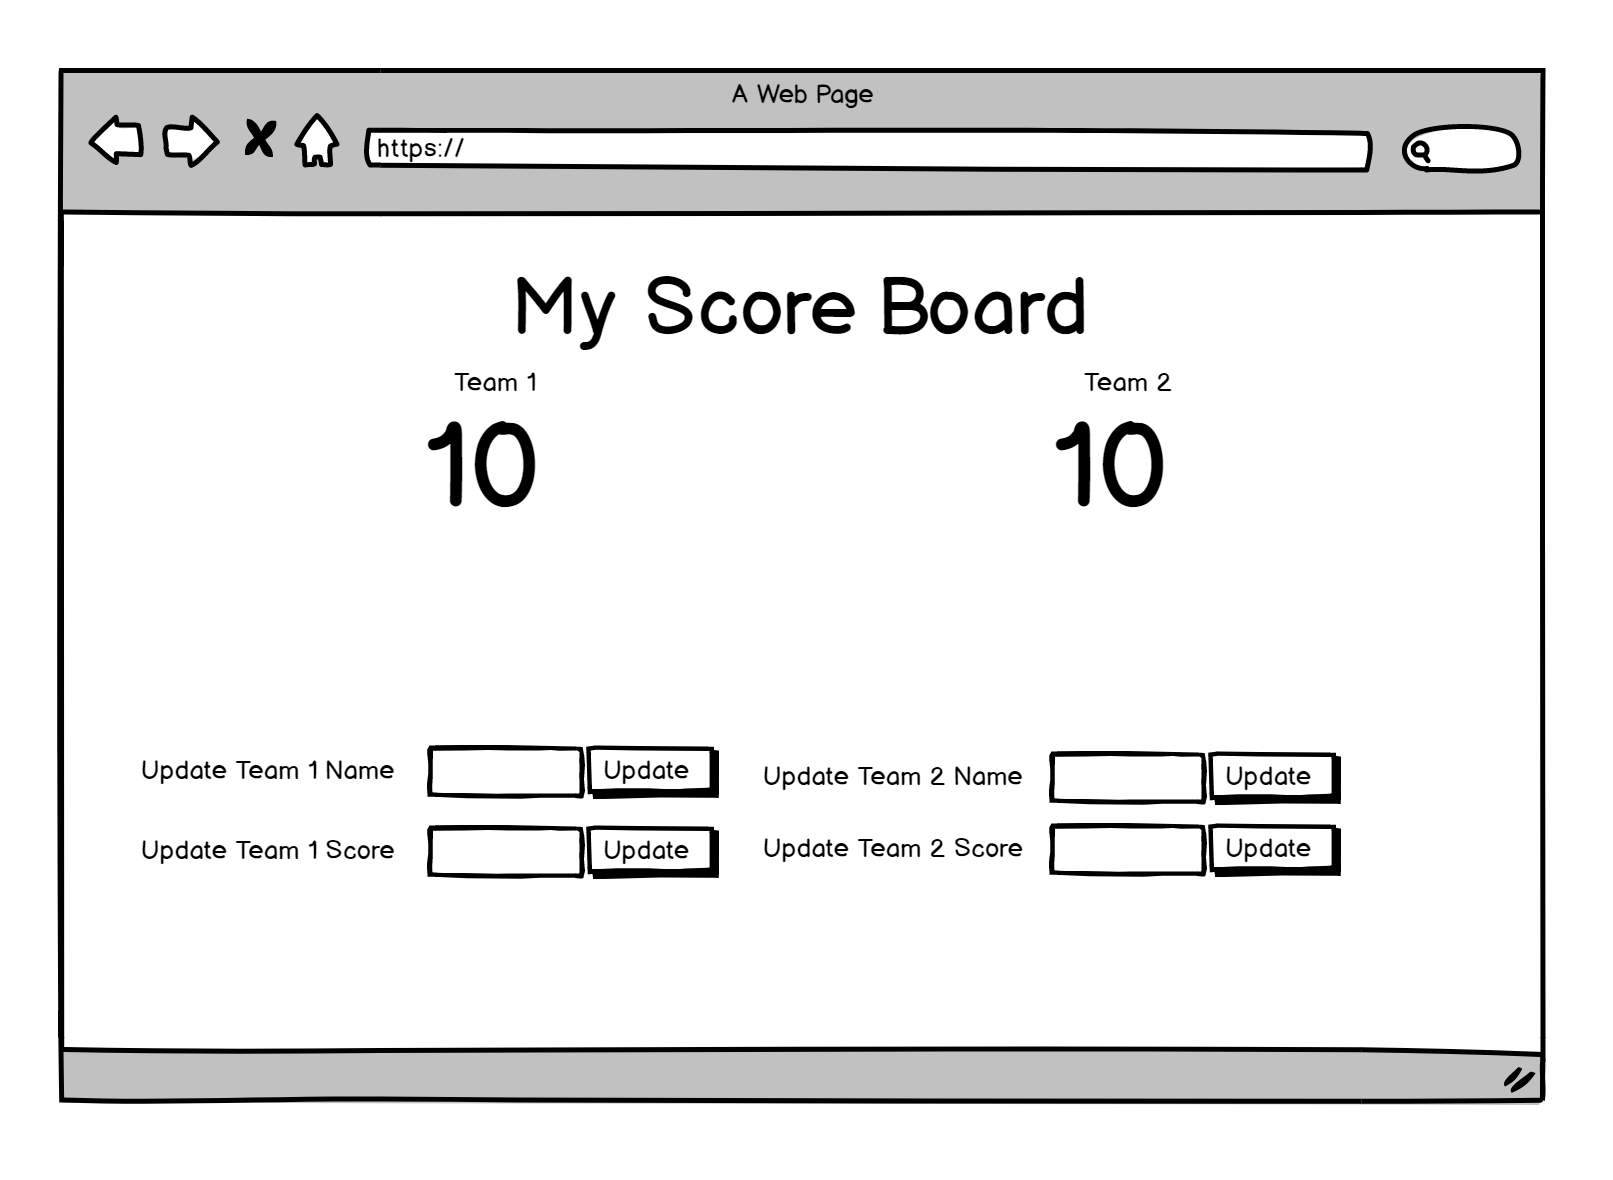
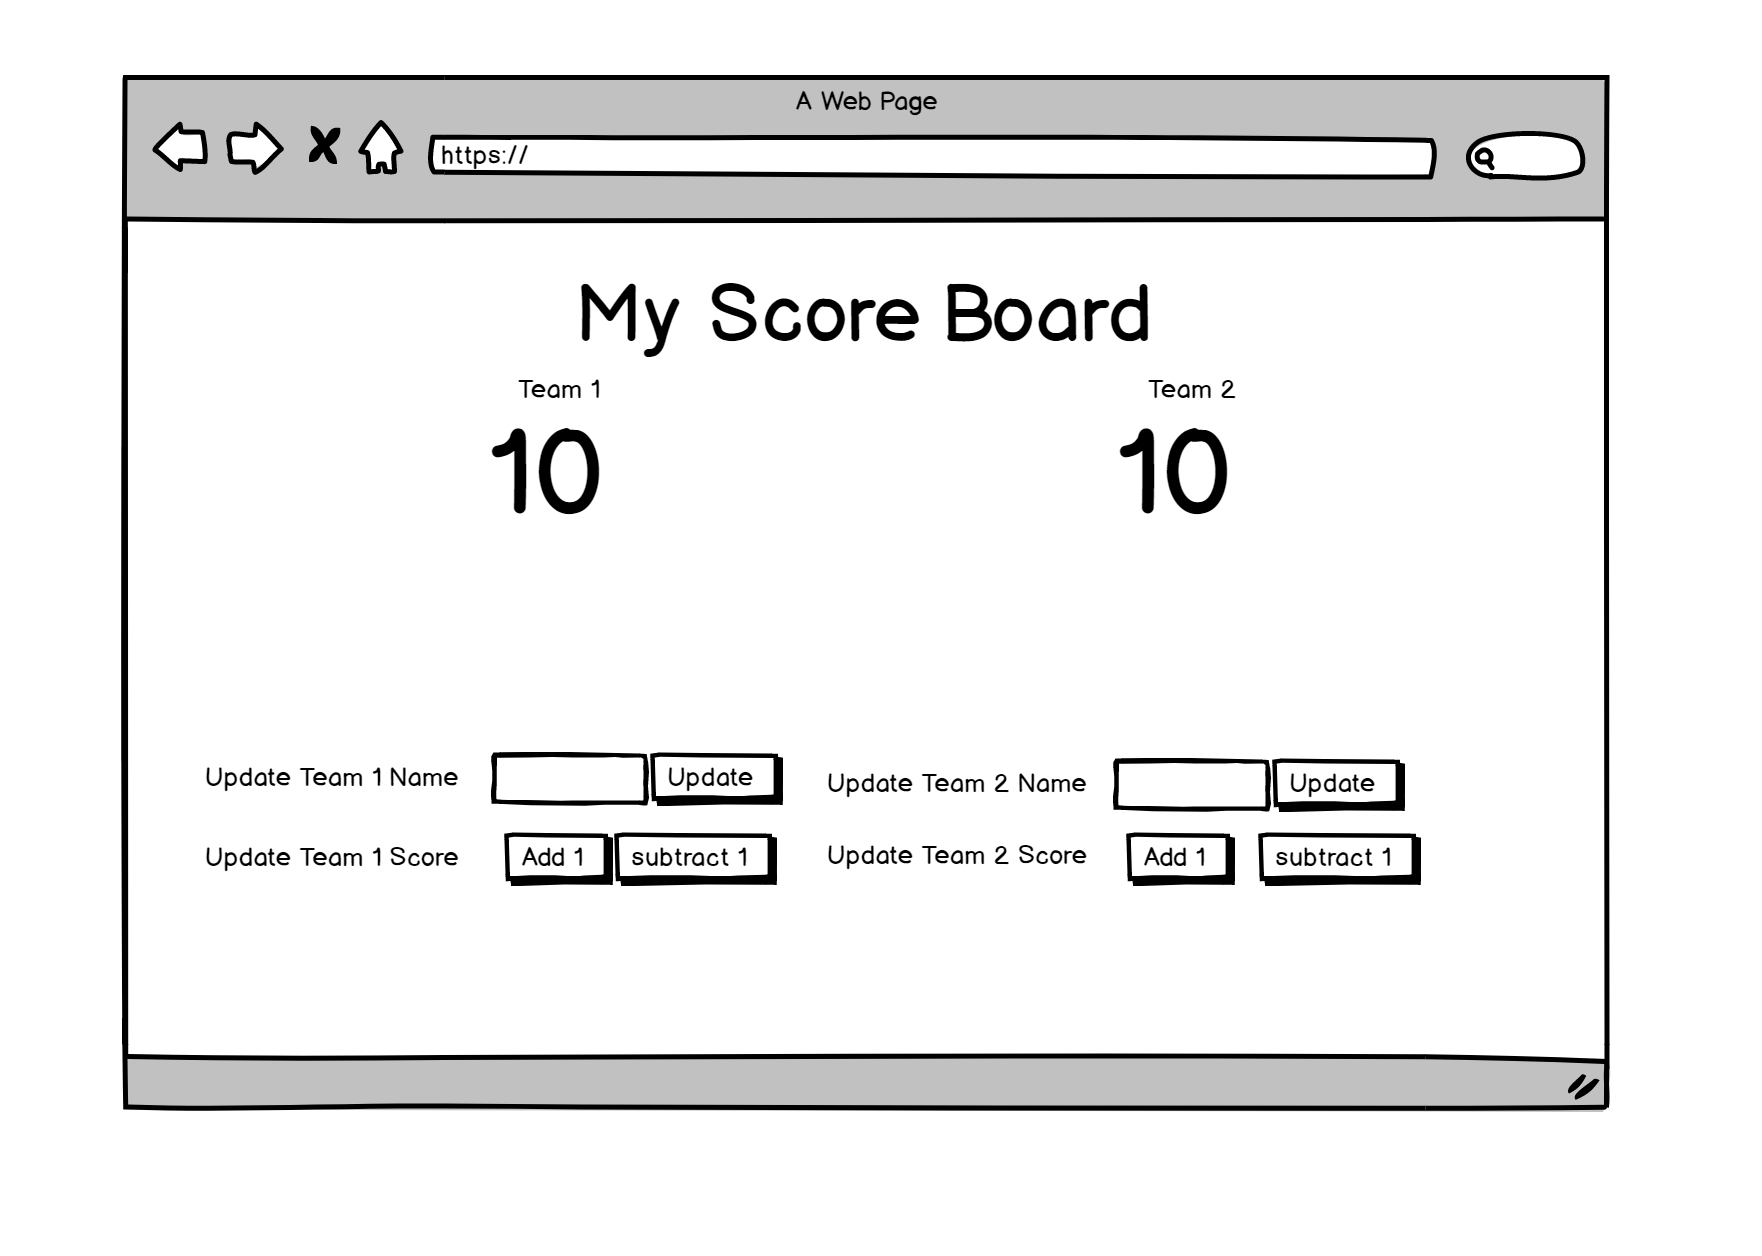
added 2.1 assignment

Changed region(s): [[0.031, 0.0305, 0.9609, 0.9458], [0.31, 0.2136, 0.744, 0.4271], [0.248, 0.3051, 0.341, 0.4271]]

diff --git a/week-2/day-1/homework.md b/week-2/day-1/homework.md
@@ -10,20 +10,29 @@ A User should be able to update a score and the teams playing.
 ### Explorer Mode
 
 Should resemble this: 
+![markup](https://github.com/suncoast-devs/joint-training-curriculum-.net/raw/master/week-2/day-1/assests/scoreboard-day-1.PNG)
 
 
+- [ ] implement the basic HTML
+- [ ] implement the basic styling
+- [ ] add click events to the `update` buttons to update the corresponding values on the page. The score buttons should adjust the current score by a "hard coded" value
 
-- [ ] this is a requirement
 
 
 ### Adventure Mode
 
-- [ ] this is a requirement
-
+- [ ] Complete Explorer Mode
+- [ ] Implement a Quarter/Period Tracker that would be appropriate for the sport
+- [ ] Add some custom CSS to make it more colorful. Have fun with it
+- [ ] Make the layout responsive
 
 ### Epic Mode
 
-- [ ] this is a requirement
+- [ ] Add a Timer that counts down automatically and updates the period/quarter appropriately 
+- [ ] Save/load the information to local storage
+- [ ] Add CSS to the winning teams score to indicate who is currently winning
+- [ ] add anythign else that your sport would have on its score board (fouls, sacks, shots on goal, etc);
+- [ ]
 
 ## Turning In
 
@@ -55,8 +64,3 @@ These steps will be followed for almost every assignment going forward. Once you
   ```
 
 Once you are completely, go to the issue on our `assignments` repository, leave the link the repo of your work, and close the issue. I will not know you are down until you close the issue. 
-
-
-
-
-## Additional Resources
